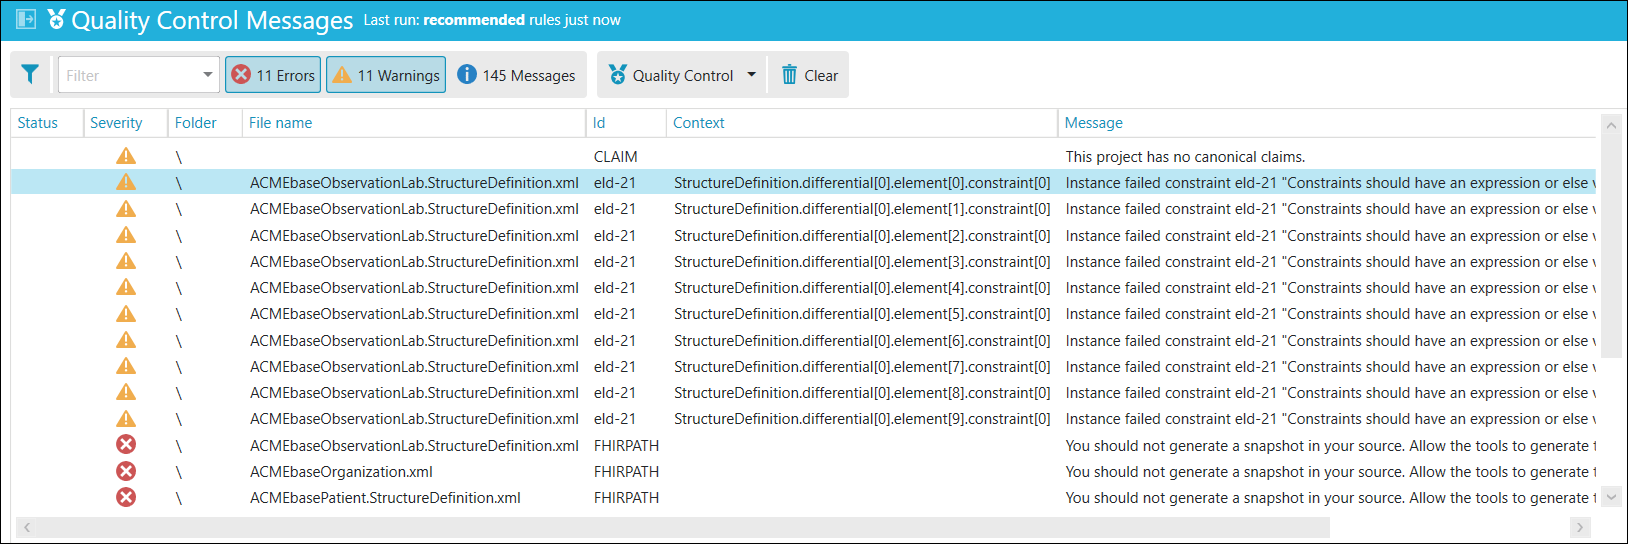
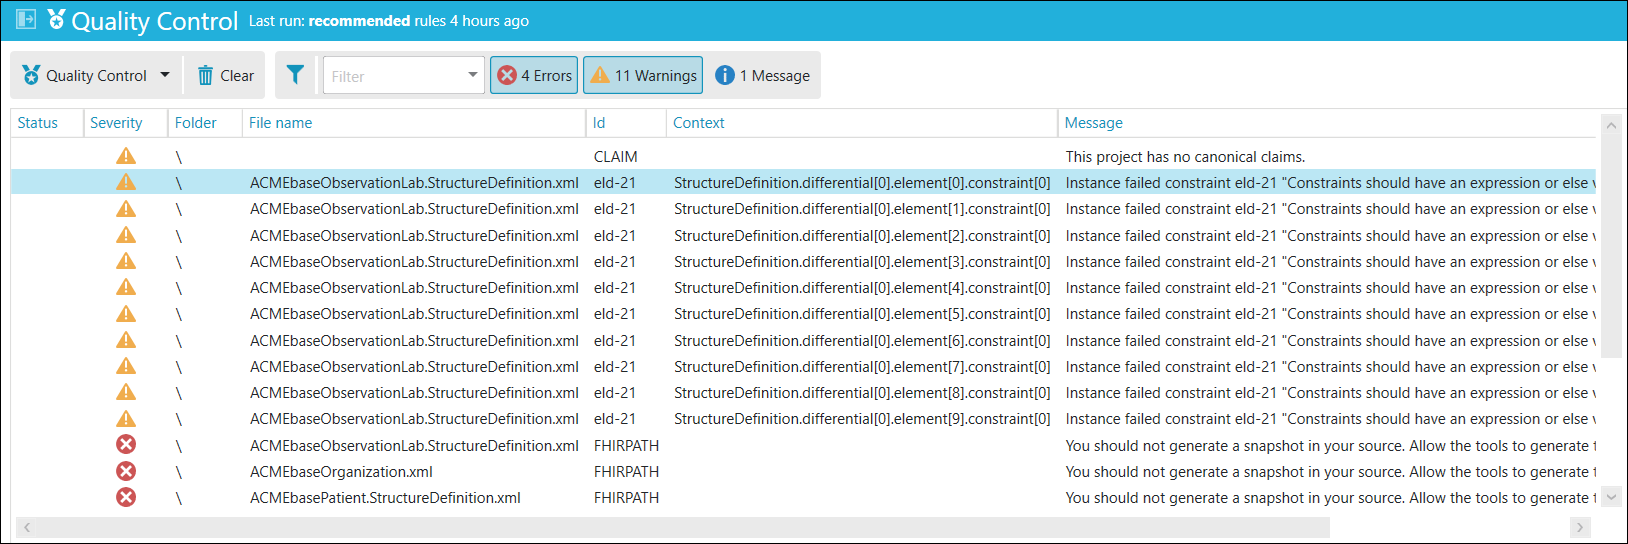
Updated quality control message image and fixed some typos.

Changed region(s): [[0.1229, 0.0938, 0.5221, 0.1875], [0.0307, 0.0312, 0.3993, 0.0625], [0.0, 0.125, 0.0921, 0.1562]]

diff --git a/features/QualityControl.md b/features/QualityControl.md
@@ -14,7 +14,7 @@ to Quality Control: Validating FHIR Projects.
 
 ## Running rules in Forge
 
-You can access Quality Control from the Quality Control Messages toolbar located at the right bottom of Forge.
+You can access Quality Control from the **Quality Control** toolbar located at the right bottom of Forge.
 
 ![QualityControl](../images/QualityControl.png)
 
@@ -28,9 +28,9 @@ When you run a ruleset, a window will open displaying the individual rules and t
 
 If the Quality Control process takes a very long time you can click `Cancel` to abort the operation.
 
-## Quality Control Messages
+## Quality Control messages
 
-The result of the Quality Control is presented in the **Quality Control Messages** panel.
+The result of the Quality Control is presented in the **Quality Control** panel.
 
 ![QualityControl_Messages](../images/QualityControl_Messages.png)
 
